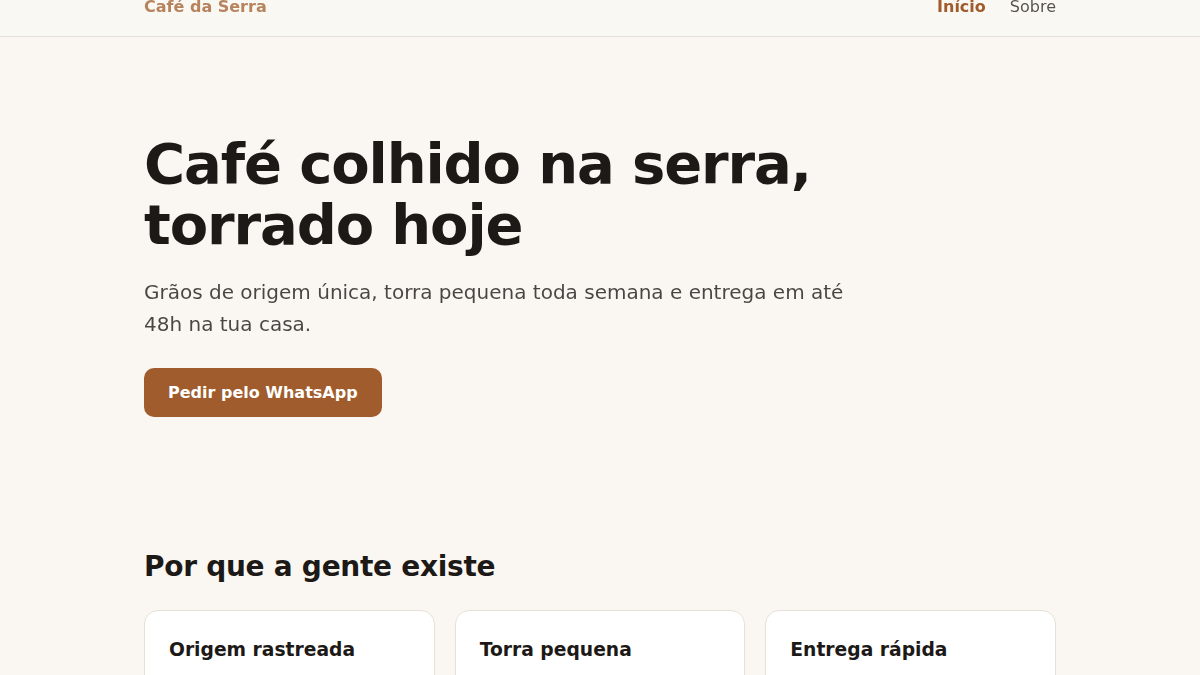
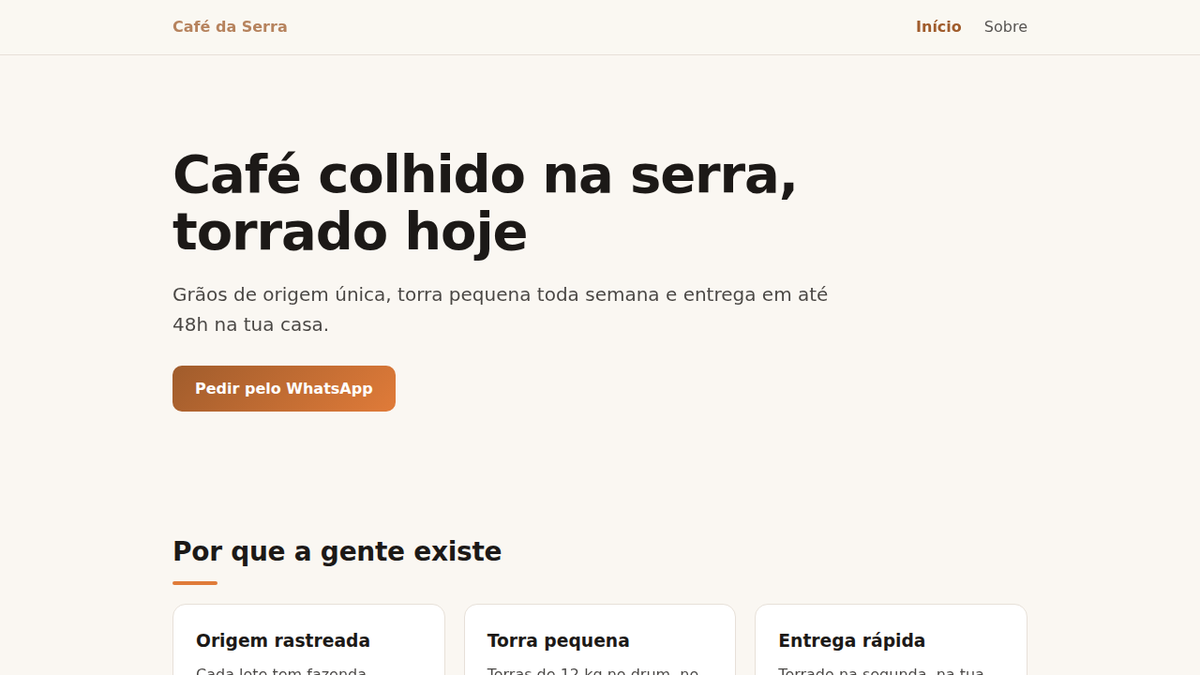
spec2site v0.3.2: --serve e --port, servidor HTTP embutido (zero dependências, node:http)

diff --git a/CHANGELOG.md b/CHANGELOG.md
@@ -1,3 +1,11 @@
+## 0.3.2 — 2026-10-30
+
+- `--serve` e `--port`: servidor HTTP embutido (zero dependências, Node `node:http`).
+- Gere o site e sirva ele na hora: `node gerar.mjs exemplos/cafeteria.yaml --saida dist --serve`.
+- Porta padrão 8080, customizável com `--port 3000`.
+- Tratamento de erro no servidor (porta ocupada, permissão).
+- Preparação para v0.4: deploy num comando.
+
 # Changelog
 
 ## 0.3.1 — 2026-10-30
